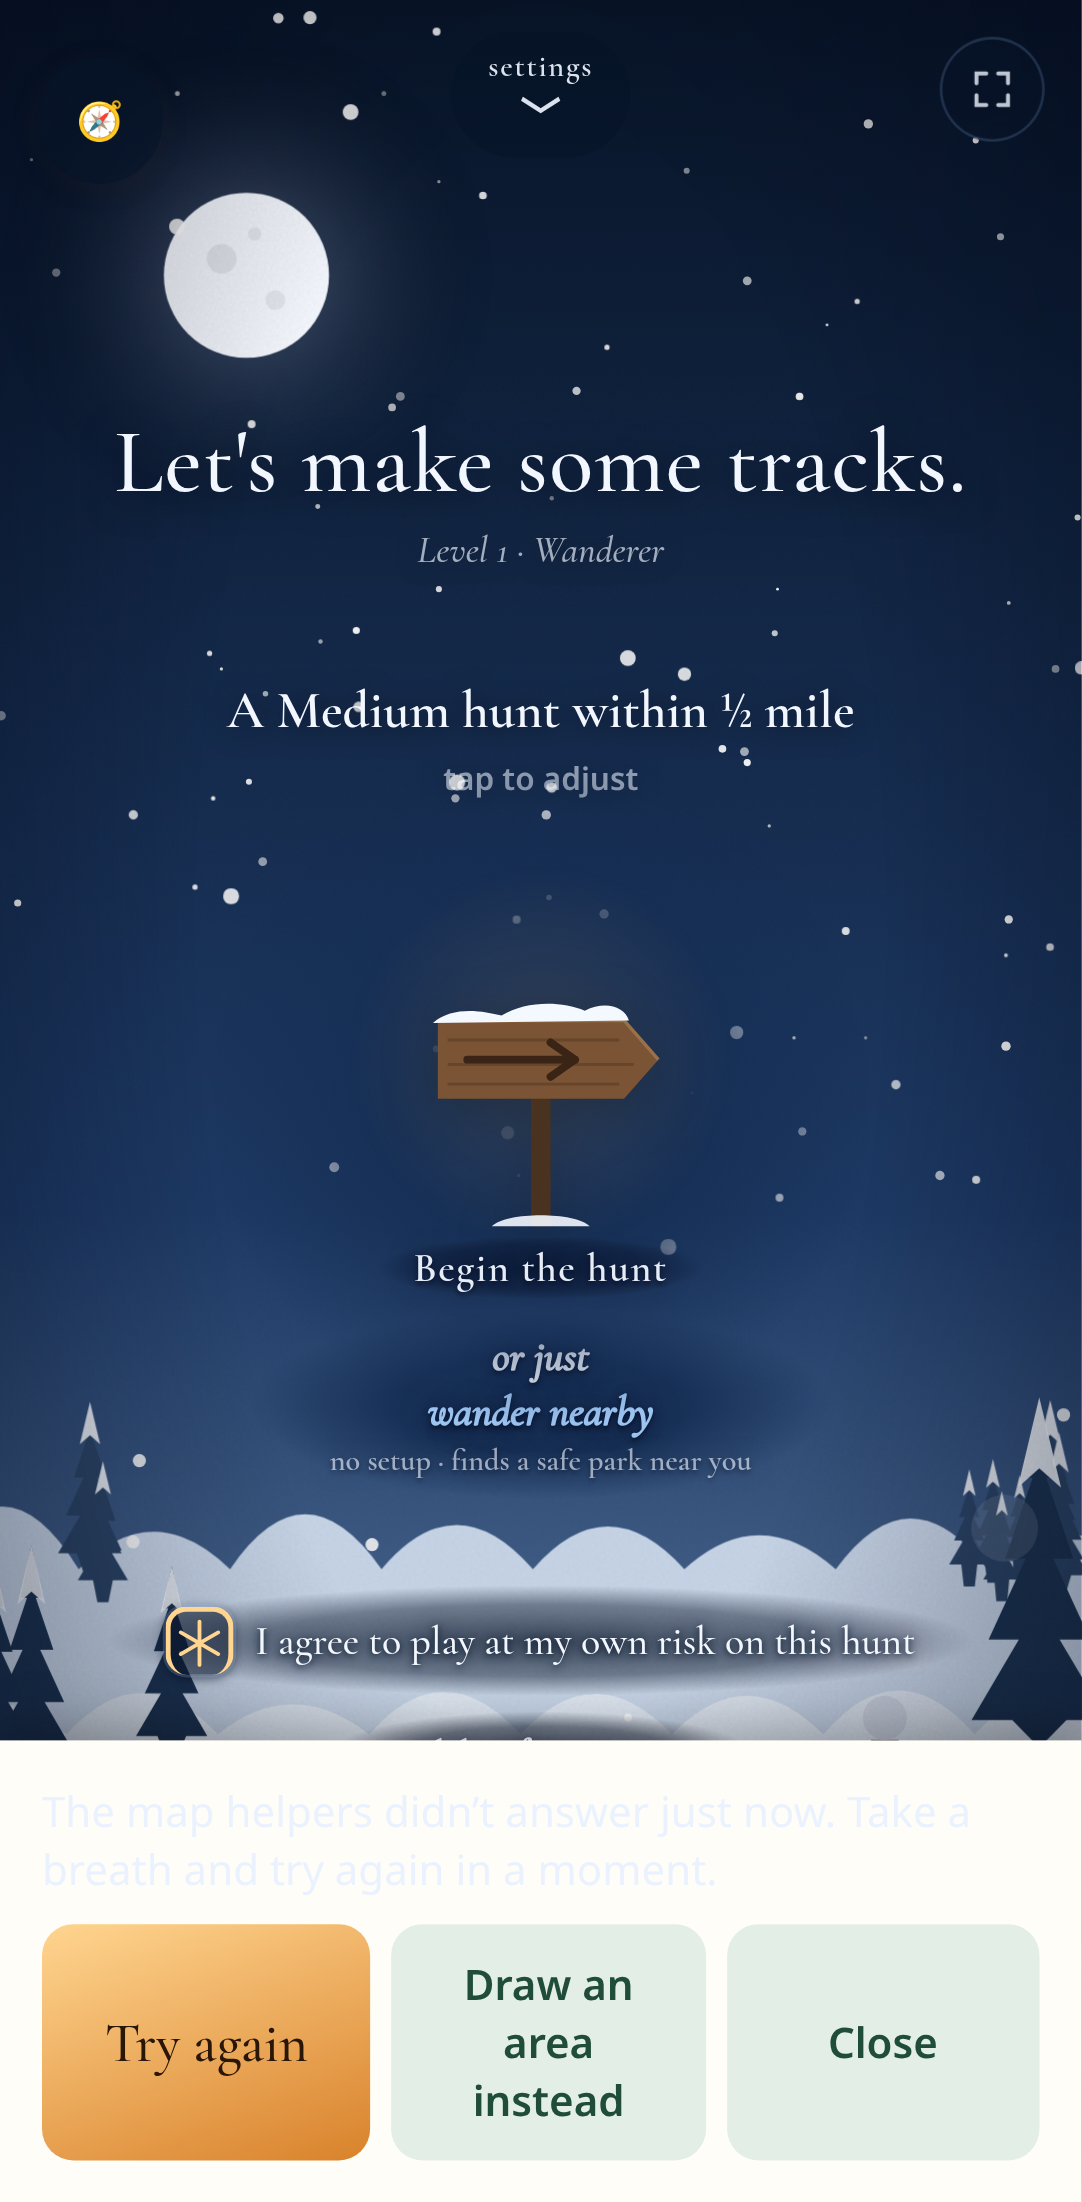
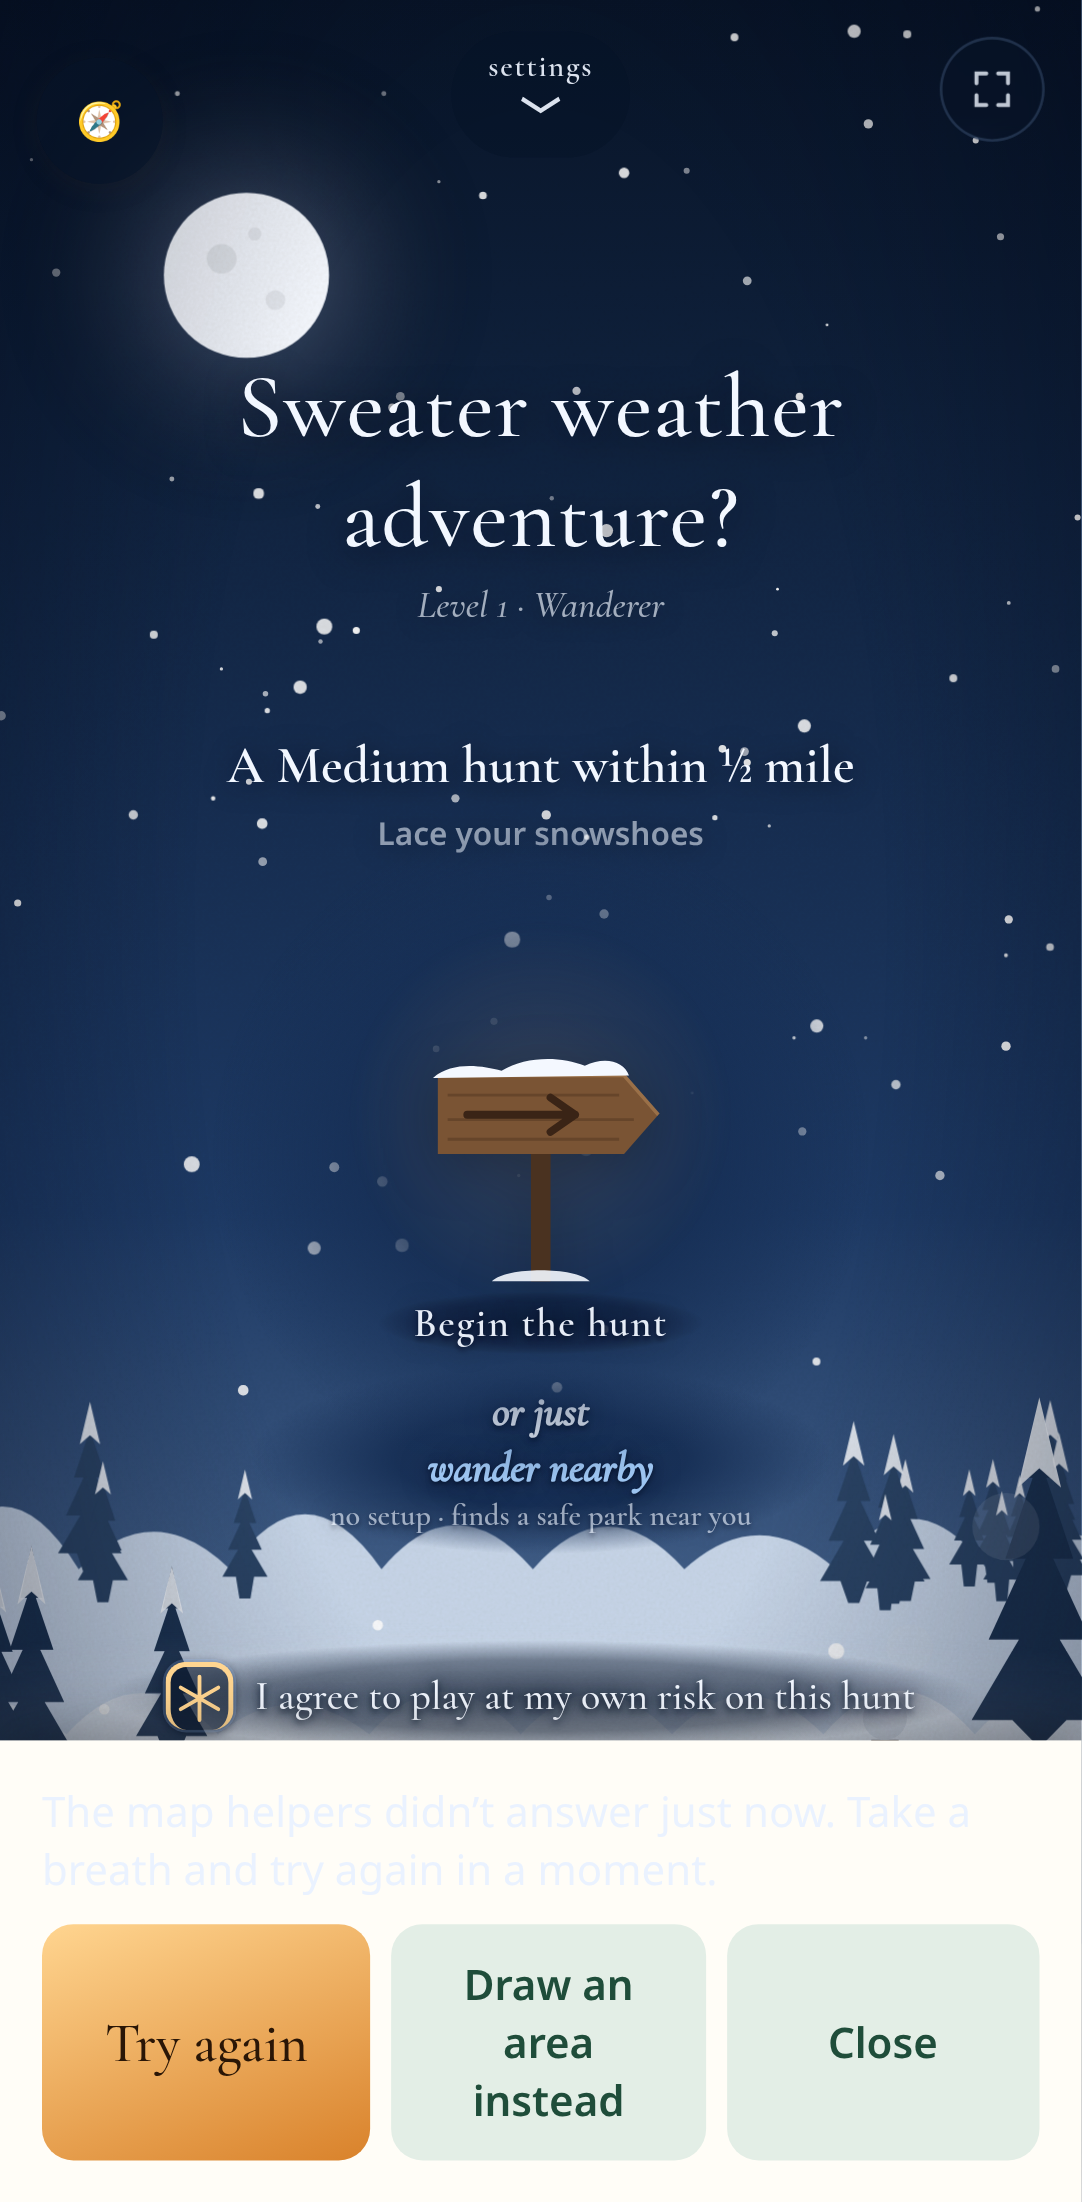
Wander nearby: zero-setup live Overpass spots w/ mirrors, safety filters, calm fallback to draw

diff --git a/index.html b/index.html
@@ -1,5 +1,5 @@
-<!DOCTYPE html><html lang="en"><head><meta charset="utf-8"><meta http-equiv="Cache-Control" content="no-cache, no-store, must-revalidate"><meta http-equiv="Pragma" content="no-cache"><meta http-equiv="Expires" content="0"><meta name="ttu-build" content="202610232125"><meta name="viewport" content="width=device-width,initial-scale=1,viewport-fit=cover">
-<title>Trail Trade-Up · Solo Hunt</title><meta name="theme-color" content="#1f4d3a"><link rel="manifest" href="manifest.json?v=202610232125"><link rel="icon" href="icon-192.png?v=202610232125"><link rel="apple-touch-icon" href="icon-192.png?v=202610232125"><meta name="mobile-web-app-capable" content="yes"><meta name="apple-mobile-web-app-capable" content="yes"><meta name="apple-mobile-web-app-status-bar-style" content="black-translucent"><meta name="apple-mobile-web-app-title" content="Trail Hunt">
+<!DOCTYPE html><html lang="en"><head><meta charset="utf-8"><meta http-equiv="Cache-Control" content="no-cache, no-store, must-revalidate"><meta http-equiv="Pragma" content="no-cache"><meta http-equiv="Expires" content="0"><meta name="ttu-build" content="202610232127"><meta name="viewport" content="width=device-width,initial-scale=1,viewport-fit=cover">
+<title>Trail Trade-Up · Solo Hunt</title><meta name="theme-color" content="#1f4d3a"><link rel="manifest" href="manifest.json?v=202610232127"><link rel="icon" href="icon-192.png?v=202610232127"><link rel="apple-touch-icon" href="icon-192.png?v=202610232127"><meta name="mobile-web-app-capable" content="yes"><meta name="apple-mobile-web-app-capable" content="yes"><meta name="apple-mobile-web-app-status-bar-style" content="black-translucent"><meta name="apple-mobile-web-app-title" content="Trail Hunt">
 <link rel="stylesheet" href="https://unpkg.com/leaflet@1.9.4/dist/leaflet.css"><script src="https://unpkg.com/leaflet@1.9.4/dist/leaflet.js"></script>
 <link rel="preconnect" href="https://fonts.googleapis.com"><link rel="preconnect" href="https://fonts.gstatic.com" crossorigin><link rel="stylesheet" href="https://fonts.googleapis.com/css2?family=Amatic+SC:wght@700&family=Cormorant+Garamond:ital,wght@0,500;0,600;1,500&family=Creepster&family=Fraunces:ital,opsz,wght@0,9..144,400;0,9..144,600;1,9..144,400&family=IM+Fell+English:ital@0;1&family=IM+Fell+English+SC&family=Nunito:wght@400;600;700&family=Pacifico&family=Spectral:ital,wght@0,400;0,600;1,400&display=swap">
 <style>
@@ -1482,6 +1482,73 @@ function all(){try{dn();pdn();pup();prof()}catch(e){console.warn('softUI',e)}}wi
 function chk(){fetch(location.pathname+'?cb='+Date.now(),{cache:'no-store'}).then(r=>r.text()).then(t=>{const m=t.match(/name="ttu-build" content="(\d+)"/);if(m&&m[1]>cur){const k='ttu_profile_upd';if(sessionStorage.getItem(k)===m[1])return;sessionStorage.setItem(k,m[1]);const u=new URL(location.href);u.searchParams.set('v',m[1]);location.replace(u)}}).catch(()=>{})}
 chk();document.addEventListener('visibilitychange',()=>{if(!document.hidden)chk()});})();
 </script>
+<script id="wanderJS">
+/* Wander nearby: zero-setup — live-fetch safe public spots near you from Overpass */
+(function(){
+const MIRRORS=['https://overpass-api.de/api/interpreter','https://overpass.kumi.systems/api/interpreter','https://overpass.private.coffee/api/interpreter','https://maps.mail.ru/osm/tools/overpass/api/interpreter'];
+const R=1800;
+Object.assign(KIND,{playground:'playground',trailhead:'trailhead',library:'library green',village_green:'town green',garden:'public garden',common:'town common'});
+function q(lat,lng){const a='(around:'+R+','+lat+','+lng+')',b='(around:'+(R+300)+','+lat+','+lng+')';
+return '[out:json][timeout:20];('+
+'nwr["leisure"~"^(park|playground|nature_reserve|garden|common)$"]["access"!~"private|no"]'+a+';'+
+'node["highway"="trailhead"]'+a+';node["tourism"="viewpoint"]'+a+';nwr["amenity"="library"]'+a+';nwr["landuse"="village_green"]'+a+';'+
+');out geom 400;('+
+'way["highway"~"^(motorway|trunk|primary|secondary|motorway_link|trunk_link|primary_link|secondary_link)$"]'+b+';'+
+'way["railway"~"^(rail|light_rail|tram|subway|narrow_gauge)$"]'+b+';'+
+'way["natural"="water"]'+b+';way["waterway"~"^(river|stream|canal|ditch|drain)$"]'+b+';'+
+'way["landuse"~"^(industrial|military)$"]'+b+';'+
+');out geom 3000;'}
+async function fetchOne(url,body,ms){const ac=new AbortController(),t=setTimeout(()=>ac.abort(),ms);try{const r=await fetch(url,{method:'POST',body:'data='+encodeURIComponent(body),headers:{'Content-Type':'application/x-www-form-urlencoded'},signal:ac.signal});if(!r.ok)throw new Error('HTTP '+r.status);const j=await r.json();if(!j||!Array.isArray(j.elements))throw new Error('bad');return j}finally{clearTimeout(t)}}
+async function fetchAll(body){let err;for(const u of MIRRORS){try{return await fetchOne(u,body,13000)}catch(e){err=e}}throw err||new Error('offline')}
+const bb=pts=>{let a=[1e9,1e9,-1e9,-1e9];for(const p of pts){a[0]=Math.min(a[0],p[0]);a[1]=Math.min(a[1],p[1]);a[2]=Math.max(a[2],p[0]);a[3]=Math.max(a[3],p[1])}return a};
+const ring=g=>(g||[]).map(c=>[+c.lon.toFixed(6),+c.lat.toFixed(6)]);
+const closed=r=>r.length>3&&r[0][0]===r[r.length-1][0]&&r[0][1]===r[r.length-1][1];
+function kindOf(t){return t.leisure||(t.highway==='trailhead'?'trailhead':t.tourism==='viewpoint'?'viewpoint':t.amenity==='library'?'library':t.landuse==='village_green'?'village_green':'park')}
+function parse(j){const z=[],u=[];
+for(const e of j.elements){const t=e.tags||{};
+const isSafe=t.leisure||t.highway==='trailhead'||t.tourism==='viewpoint'||t.amenity==='library'||t.landuse==='village_green';
+const unsafeK=t.railway?'rail':t.waterway||(t.natural==='water'?'water':null)||(t.landuse==='industrial'||t.landuse==='military'?t.landuse:null)||(t.highway&&t.highway!=='trailhead'?t.highway:null);
+if(isSafe&&!unsafeK){const k=kindOf(t),n=t.name||(KIND[k]?KIND[k].replace(/^./,c=>c.toUpperCase()):'Park')+' nearby';
+ if(e.type==='node'){z.push({n,k,t:'p',b:[e.lon,e.lat,e.lon,e.lat],g:[e.lon,e.lat],live:1});continue}
+ const polys=[];if(e.type==='way'){const r=ring(e.geometry);if(closed(r))polys.push([r])}
+ else if(e.type==='relation')for(const m of e.members||[]){if(m.role==='outer'){const r=ring(m.geometry);if(closed(r))polys.push([r])}}
+ if(polys.length)z.push({n,k,t:'a',b:bb(polys.flatMap(p=>p[0])),g:polys,live:1});
+ else if(e.center)z.push({n,k,t:'p',b:[e.center.lon,e.center.lat,e.center.lon,e.center.lat],g:[e.center.lon,e.center.lat],live:1});continue}
+if(unsafeK&&e.type==='way'){const r=ring(e.geometry);if(r.length<2)continue;
+ if(closed(r)&&(t.natural==='water'||t.landuse))u.push({t:'a',k:unsafeK,b:bb(r),g:[[r]]});else u.push({t:'l',k:unsafeK,b:bb(r),g:[r]})}}
+return{z,u}}
+window.TTU_WANDER={q,parse,MIRRORS};
+const PREF={easy:[0.25,0.5,1],medium:[0.5,0.25,1],hard:[1,0.5,1.25]};
+async function wander(){const msg=document.getElementById('sxMsg');
+if(!$('agree').checked){const a=document.getElementById('sxAgree');a.classList.remove('nudge');void a.offsetWidth;a.classList.add('nudge');msg.textContent='Please agree to the safety terms first.';return}
+const btn=document.getElementById('sxWander');btn.disabled=true;document.body.classList.add('wandering');
+try{msg.textContent='Finding where you are…';let c;try{await loadData()}catch(e){DATA=DATA||{z:[],u:[]}}
+c=await getPos();msg.textContent='Looking for a friendly spot nearby…';
+let j;try{j=await fetchAll(q(c.lat.toFixed(5),c.lng.toFixed(5)))}catch(e){fail('The map helpers didn\u2019t answer just now. Take a breath and try again in a moment.');return}
+const L2=parse(j);if(L2.u.length)DATA.u=DATA.u.concat(L2.u);
+const live=L2.z.filter(z=>!DATA.z.some(o=>o.n===z.n&&Math.abs(o.b[0]-z.b[0])<1e-4));DATA.z=DATA.z.concat(live);
+const keep={mode,miSel};mode='radius';let res=null,used=null;
+for(const r of PREF[diffSel]||PREF.medium){const rg={type:'circle',c:{lat:c.lat,lng:c.lng},r:r*M_PER_MI};const p=placePin(rg,false);if(p){res=p;used=r;break}}
+if(!res){mode=keep.mode;fail('No calm, safe public spot turned up within walking distance here.');return}
+miSel=used;msg.textContent='Found a spot. Off you go…';await start();if(!S||!S.pin)mode=keep.mode;miSel=keep.miSel}
+catch(e){fail(e&&e.code===1?'Location is off, so I can\u2019t look nearby. Allow location and try again.':'Something hiccuped while looking nearby. Try again in a moment.')}
+finally{btn.disabled=false;document.body.classList.remove('wandering')}}
+async function fail(t){const msg=document.getElementById('sxMsg');msg.textContent='';const v=await ask(t,[['Try again','again','primary'],['Draw an area instead','draw'],['Close','ok']]);
+if(v==='again')return wander();if(v==='draw'){const b=document.querySelector('[data-mode="public"]');b&&b.click();typeof openS==='function'&&openS('up')}}
+window.TTU_WANDER.go=wander;
+function mount(){const g=document.getElementById('sxGo');if(!g||document.getElementById('sxWander'))return;
+g.insertAdjacentHTML('afterend','<button id="sxWander" type="button" aria-label="Wander nearby with no setup"><span class="wI">\u2766</span> or just <b>wander nearby</b><small>no setup \u00b7 finds a safe park near you</small></button>');
+document.getElementById('sxWander').onclick=wander}
+mount();setTimeout(mount,600);
+})();
+</script>
+<style id="wanderCSS">
+#sxWander{display:flex;flex-direction:column;align-items:center;gap:1px;margin:4px auto 0;padding:8px 30px;min-height:48px;border:0;border-radius:999px;background:radial-gradient(closest-side,var(--clr,rgba(255,255,255,.4)) 50%,transparent)!important;text-shadow:0 1px 2px var(--tsh,transparent),0 0 10px var(--tsh,transparent);box-shadow:none!important;color:var(--fg,inherit);font-family:var(--fh,Georgia,serif);font-size:1rem;font-style:italic;cursor:pointer;transition:transform .25s,opacity .3s;text-decoration:none}
+#sxWander b{font-weight:600;color:var(--sel,#b8612b)}#sxWander small{font-style:normal;font-family:var(--fb,system-ui);font-size:.72rem;opacity:.6}
+#sxWander .wI{display:none}#sxWander:active{transform:scale(.97)}#sxWander:disabled{opacity:.55}
+body.wandering #sxWander b{animation:wP 1.4s ease-in-out infinite}@keyframes wP{50%{opacity:.4}}
+@media (prefers-reduced-motion:reduce){body.wandering #sxWander b{animation:none}}
+</style>
 <script id="adjLbl">
 /* themed 'tap to adjust' label */
 (function(){const T={story:['Ink your map','Ink your quest map'],haunted:['Carve your jack-o\u2019-lantern','Brew your hunting potion'],winter:['Lace your snowshoes','Wax your sled runners'],golden:['Pack your satchel','Pack your adventurer\u2019s satchel'],spring:['Pick your path','Pick your enchanted path'],summer:['Ready your canoe','Ready your longboat']};
